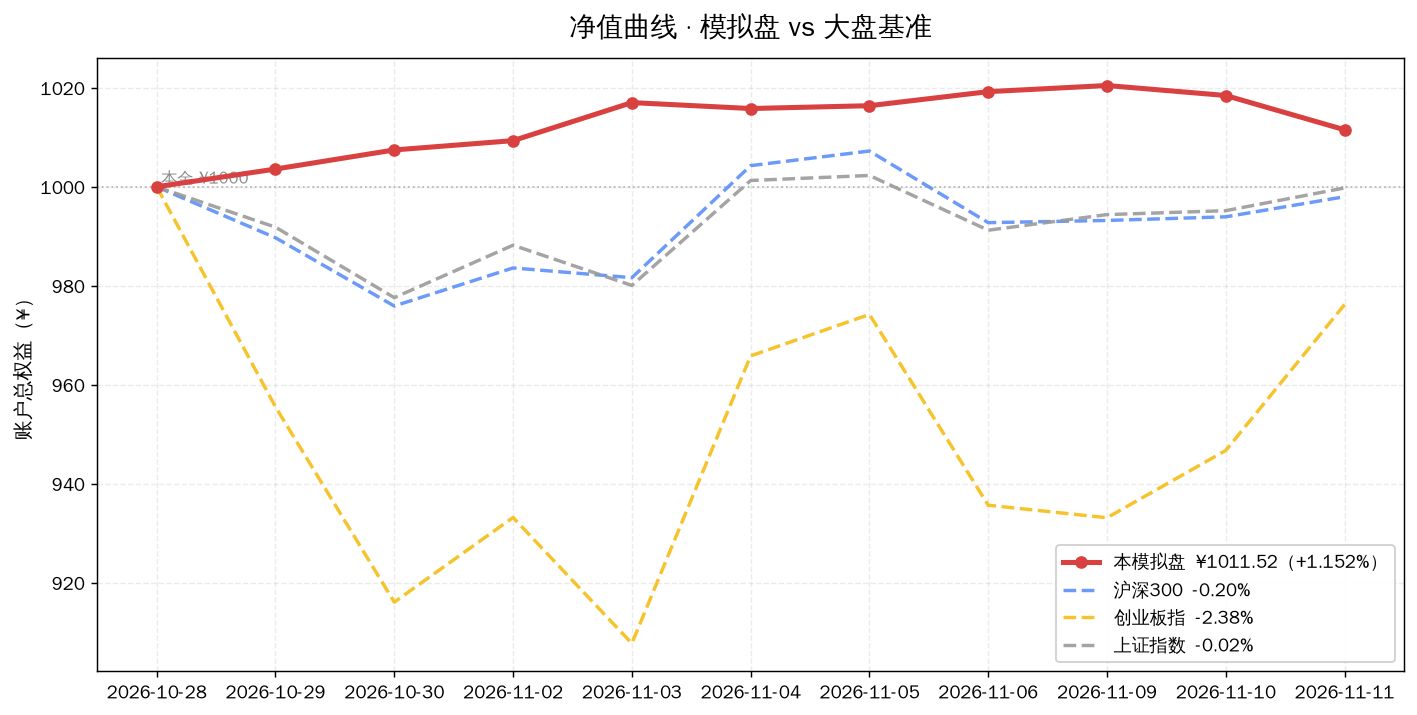
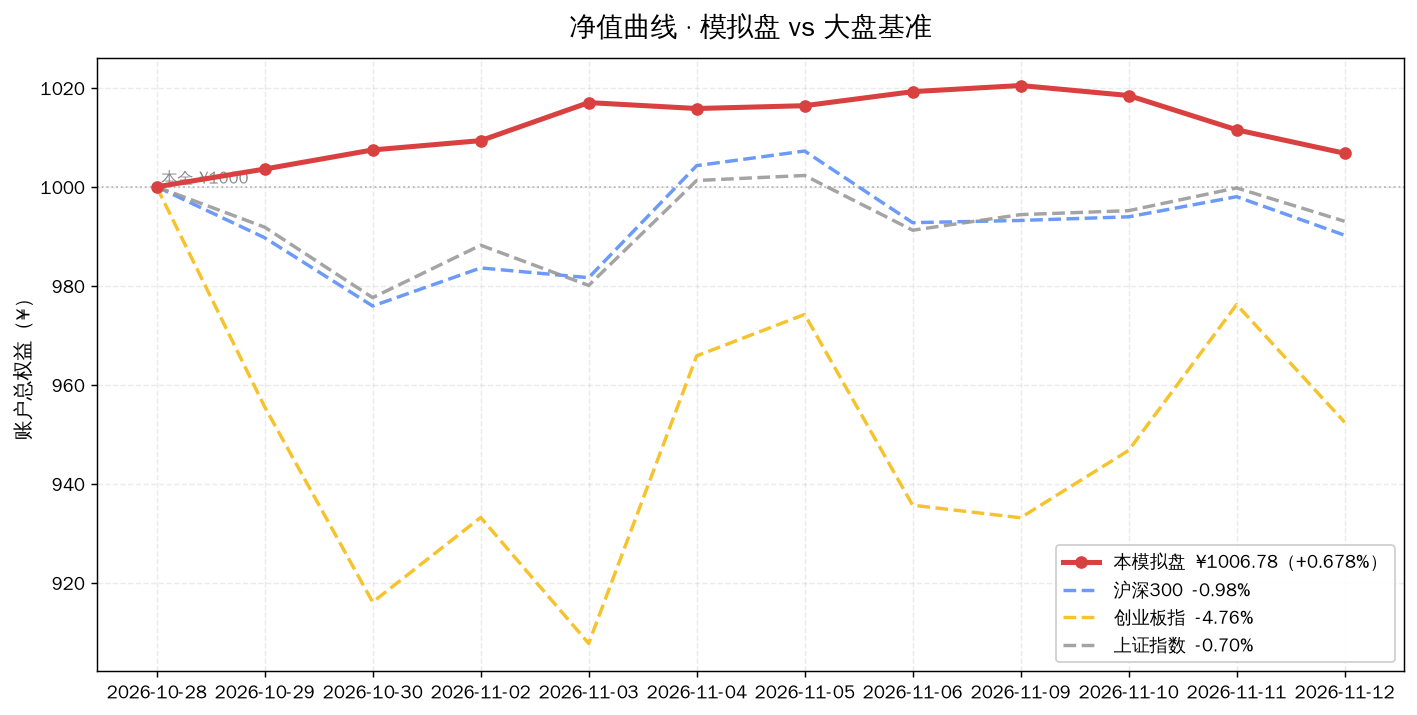
sim: dashboard update 2026-11-12 (equity ¥1006.78, +0.678%)

diff --git a/sim/DASHBOARD.md b/sim/DASHBOARD.md
@@ -1,8 +1,8 @@
 # 📊 模拟盘动态看板
 
-> **自动生成** · 最后更新 **2026-11-11 16:30** · 数据源：腾讯财经公开接口（实时行情）
+> **自动生成** · 最后更新 **2026-11-12 16:30** · 数据源：腾讯财经公开接口（实时行情）
 >
-> 本金 **¥1000.00** · 开仓 **2026-10-28** · 当前总权益 **¥1011.52** · 累计 **+1.152%**
+> 本金 **¥1000.00** · 开仓 **2026-10-28** · 当前总权益 **¥1006.78** · 累计 **+0.678%**
 >
 > ⚠ **纯模拟盘学习实验，不构成投资建议。**
 >
@@ -12,9 +12,9 @@
 
 ## 🎯 30 秒版本
 
-1. 从 2026-10-28 开仓到今天，账户从 ¥1000 变成 **¥1011.52**，赚了 **¥11.52（+1.152%）**。
-2. 今天单日 **-0.68%**，下跌 **¥6.93**。
-3. 同期大盘：**上证指数 -0.02%** 最强，**创业板指 -2.38%** 最弱 —— 本组合跑赢同期最强基准 +1.17 个百分点。
+1. 从 2026-10-28 开仓到今天，账户从 ¥1000 变成 **¥1006.78**，赚了 **¥6.78（+0.678%）**。
+2. 今天单日 **-0.47%**，下跌 **¥4.74**。
+3. 同期大盘：**上证指数 -0.70%** 最强，**创业板指 -4.76%** 最弱 —— 本组合跑赢同期最强基准 +1.37 个百分点。
 
 ## 📈 盈亏曲线
 
@@ -34,7 +34,7 @@
 
 ![盘中曲线](assets/intraday.png)
 
-**怎么读**：2026-11-11 当天每 30 分钟记录一次的账户总值。灰色虚线是当天开盘起点，曲线在虚线上方就是当天浮盈。A 股中午 11:30–13:00 休市，所以那段是平的。
+**怎么读**：2026-11-12 当天每 30 分钟记录一次的账户总值。灰色虚线是当天开盘起点，曲线在虚线上方就是当天浮盈。A 股中午 11:30–13:00 休市，所以那段是平的。
 
 ### 💵 每日盈亏明细图
 
@@ -50,20 +50,20 @@
 
 | 指标 | 数值 | 人话解读 |
 |---|---|---|
-| 总权益 | **¥1011.52** | 现在全部卖掉能拿回多少钱（持仓市值 + 现金） |
-| 持仓市值 | ¥737.64（72.9%） | 买成 ETF 的部分 |
-| 现金 | ¥273.88（27.1%） | 留着没买的钱，按货基利率计息 |
-| 累计盈亏 | **¥+11.52（+1.152%）** | 相对 ¥1000 本金 |
-| 今日盈亏 | **-0.68%** | 今天一天的变化 |
+| 总权益 | **¥1006.78** | 现在全部卖掉能拿回多少钱（持仓市值 + 现金） |
+| 持仓市值 | ¥732.90（72.8%） | 买成 ETF 的部分 |
+| 现金 | ¥273.88（27.2%） | 留着没买的钱，按货基利率计息 |
+| 累计盈亏 | **¥+6.78（+0.678%）** | 相对 ¥1000 本金 |
+| 今日盈亏 | **-0.47%** | 今天一天的变化 |
 | 历史最高 | ¥1020.47 | 账户到过的最高点 |
-| 当前回撤 | -0.877% | 离最高点还差多少（负数=没回到最高点） |
+| 当前回撤 | -1.342% | 离最高点还差多少（负数=没回到最高点） |
 
 ### 持仓明细
 
 | 标的 | 代码 | 持股 | 成本价 | 现价 | 今日 | 市值 | 浮动盈亏 | 人话解读 |
 |---|---|---|---|---|---|---|---|---|
-| 红利低波100ETF景顺 | 515100 | 450 | ¥1.431 | ¥1.455 | 🔻-0.89% | ¥654.75 | **+10.80（+1.68%）** | 赚钱了 |
-| 黄金ETF华安 | 518880 | 10 | ¥8.226 | ¥8.289 | 🔻-1.30% | ¥82.89 | **+0.63（+0.77%）** | 赚钱了 |
+| 红利低波100ETF景顺 | 515100 | 450 | ¥1.431 | ¥1.449 | 🔻-0.41% | ¥652.05 | **+8.10（+1.26%）** | 赚钱了 |
+| 黄金ETF华安 | 518880 | 10 | ¥8.226 | ¥8.085 | 🔻-2.46% | ¥80.85 | **-1.41（-1.71%）** | 还亏着 |
 | 现金 | — | — | — | — | — | ¥273.88 | — | 货基计息，年化 0.84% |
 
 ---
@@ -110,33 +110,41 @@
 
 | 资产 | 目标占比 | 实际占比 | 偏离 | 判定 |
 |---|---|---|---|---|
-| 红利低波100ETF景顺 | 65% | 64.7% | -0.3pp | 🟢 正常，不动 |
-| 黄金ETF华安 | 8% | 8.2% | +0.2pp | 🟢 正常，不动 |
-| 现金（货基） | 27% | 27.1% | +0.1pp | 🟢 正常，不动 |
+| 红利低波100ETF景顺 | 65% | 64.8% | -0.2pp | 🟢 正常，不动 |
+| 黄金ETF华安 | 8% | 8.0% | +0.0pp | 🟢 正常，不动 |
+| 现金（货基） | 27% | 27.2% | +0.2pp | 🟢 正常，不动 |
 
 #### ② 补仓条件检查（规则：跌到成本价 -8% 触发补仓，每只最多 2 次）
 
 | 标的 | 成本价 | 现价 | 距成本 | 已补仓 | 判定 |
 |---|---|---|---|---|---|
-| 红利低波100ETF景顺 | ¥1.431 | ¥1.455 | +1.68% | 0/2 | 🟢 未触发（还差 9.7pp 才到 -8%） |
-| 黄金ETF华安 | ¥8.226 | ¥8.289 | +0.77% | 0/2 | 🟢 未触发（还差 8.8pp 才到 -8%） |
+| 红利低波100ETF景顺 | ¥1.431 | ¥1.449 | +1.26% | 0/2 | 🟢 未触发（还差 9.3pp 才到 -8%） |
+| 黄金ETF华安 | ¥8.226 | ¥8.085 | -1.71% | 0/2 | 🟢 未触发（还差 6.3pp 才到 -8%） |
 
 #### ③ 回撤检查（规则：账户从最高点回撤 -5% 只记录、不割肉）
 
 | 指标 | 数值 |
 |---|---|
 | 历史最高净值 | ¥1020.47（2026-11-09） |
-| 当前净值 | ¥1011.52（2026-11-11） |
-| 回撤幅度 | **-0.877%** |
+| 当前净值 | ¥1006.78（2026-11-12） |
+| 回撤幅度 | **-1.342%** |
 | 触发阈值 | -5% |
 
-> 🟢 **未触发**：距阈值还有 4.12pp 缓冲。即使触发，纪律也是记录而非卖出。
+> 🟢 **未触发**：距阈值还有 3.66pp 缓冲。即使触发，纪律也是记录而非卖出。
 
 #### ④ 今日结论
 
 > ⏸ **账户已冻结，不执行任何交易。** 以上检查仅作记录用途——共扫描 6 项纪律，触发 **0** 项。冻结状态下即使触发也不动手（用户决定不投 A 股）。
 
 ### 四、每日决策记录（当时怎么判断的）
+
+#### 📅 2026-11-12 · 权益 ¥1006.78（累计 +0.678%）
+
+- 总权益 **¥1006.78**（当日 -0.47% / 累计 +0.678%）
+- 红利低波100ETF景顺 1.449 (-0.41%)
+- 黄金ETF华安 8.085 (-2.46%)
+- 现金 ¥273.88
+- 📝 自动收盘估值（看板 cron）
 
 #### 📅 2026-11-11 · 权益 ¥1011.52（累计 +1.152%）
 
@@ -233,9 +241,9 @@
 
 | 指数 | 同期涨跌 | 本组合超额 | 人话解读 |
 |---|---|---|---|
-| 沪深300 | -0.20% | **+1.35pp** | 跑赢 1.35 个百分点 |
-| 创业板指 | -2.38% | **+3.53pp** | 跑赢 3.53 个百分点 |
-| 上证指数 | -0.02% | **+1.17pp** | 跑赢 1.17 个百分点 |
+| 沪深300 | -0.98% | **+1.66pp** | 跑赢 1.66 个百分点 |
+| 创业板指 | -4.76% | **+5.43pp** | 跑赢 5.43 个百分点 |
+| 上证指数 | -0.70% | **+1.37pp** | 跑赢 1.37 个百分点 |
 
 > 注：`pp` = percentage point（百分点），是两个百分比相减的单位。「+2.5pp」意思是「比它高 2.5 个百分点」，不是「高 2.5%」。
 
@@ -254,6 +262,7 @@
 | 2026-11-09 | ¥1020.47 | ¥746.60 | ¥273.87 | +2.047% |
 | 2026-11-10 | ¥1018.45 | ¥744.58 | ¥273.87 | +1.845% |
 | 2026-11-11 | ¥1011.52 | ¥737.64 | ¥273.88 | +1.152% |
+| 2026-11-12 | ¥1006.78 | ¥732.90 | ¥273.88 | +0.678% |
 
 ---
 
@@ -266,4 +275,4 @@
 
 ---
 
-_本页由 `dashboard.py` 自动生成于 2026-11-11 16:30:16，每个交易日收盘后刷新。_
+_本页由 `dashboard.py` 自动生成于 2026-11-12 16:30:22，每个交易日收盘后刷新。_
